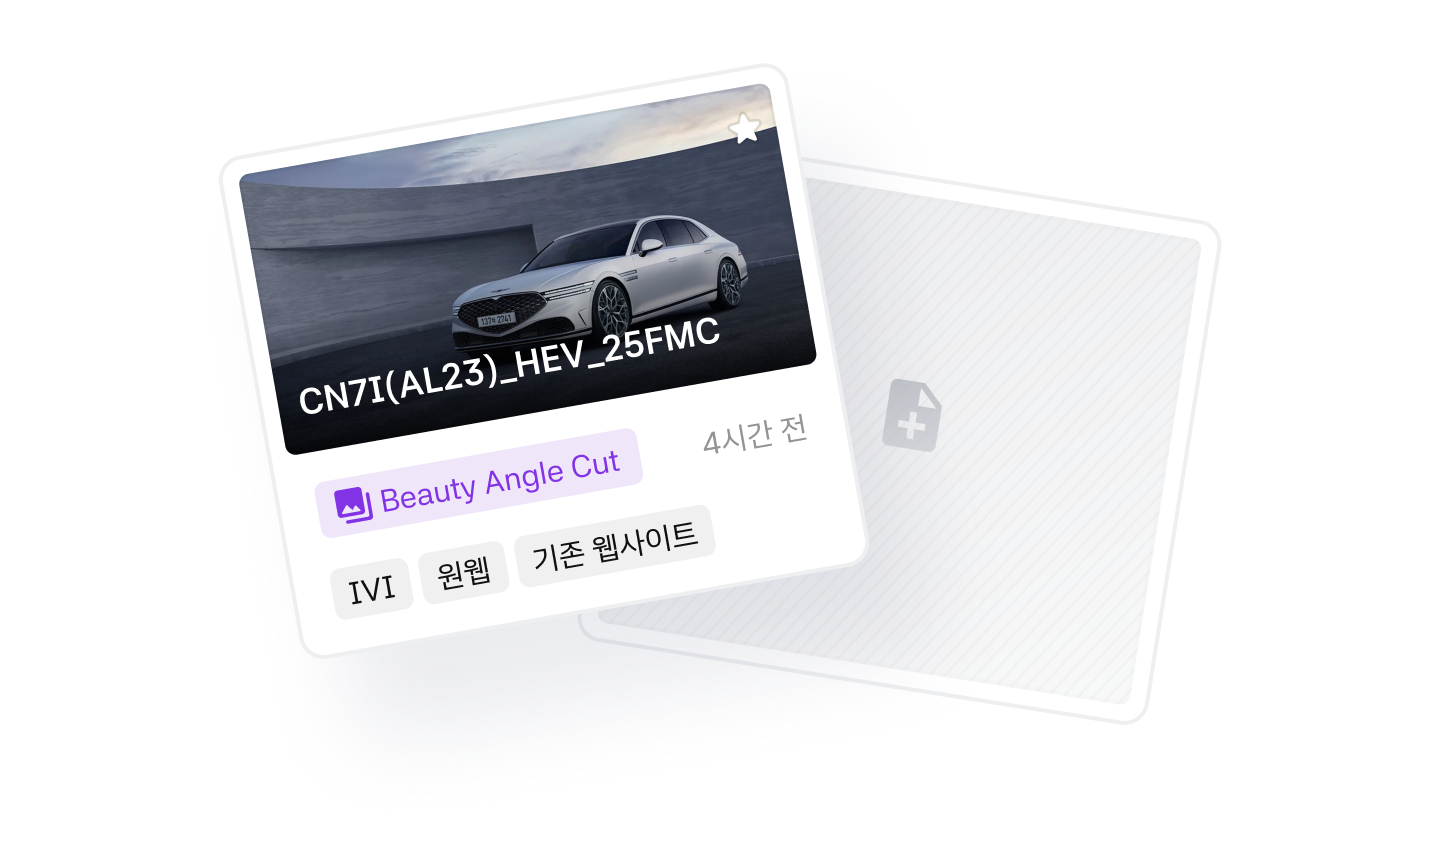
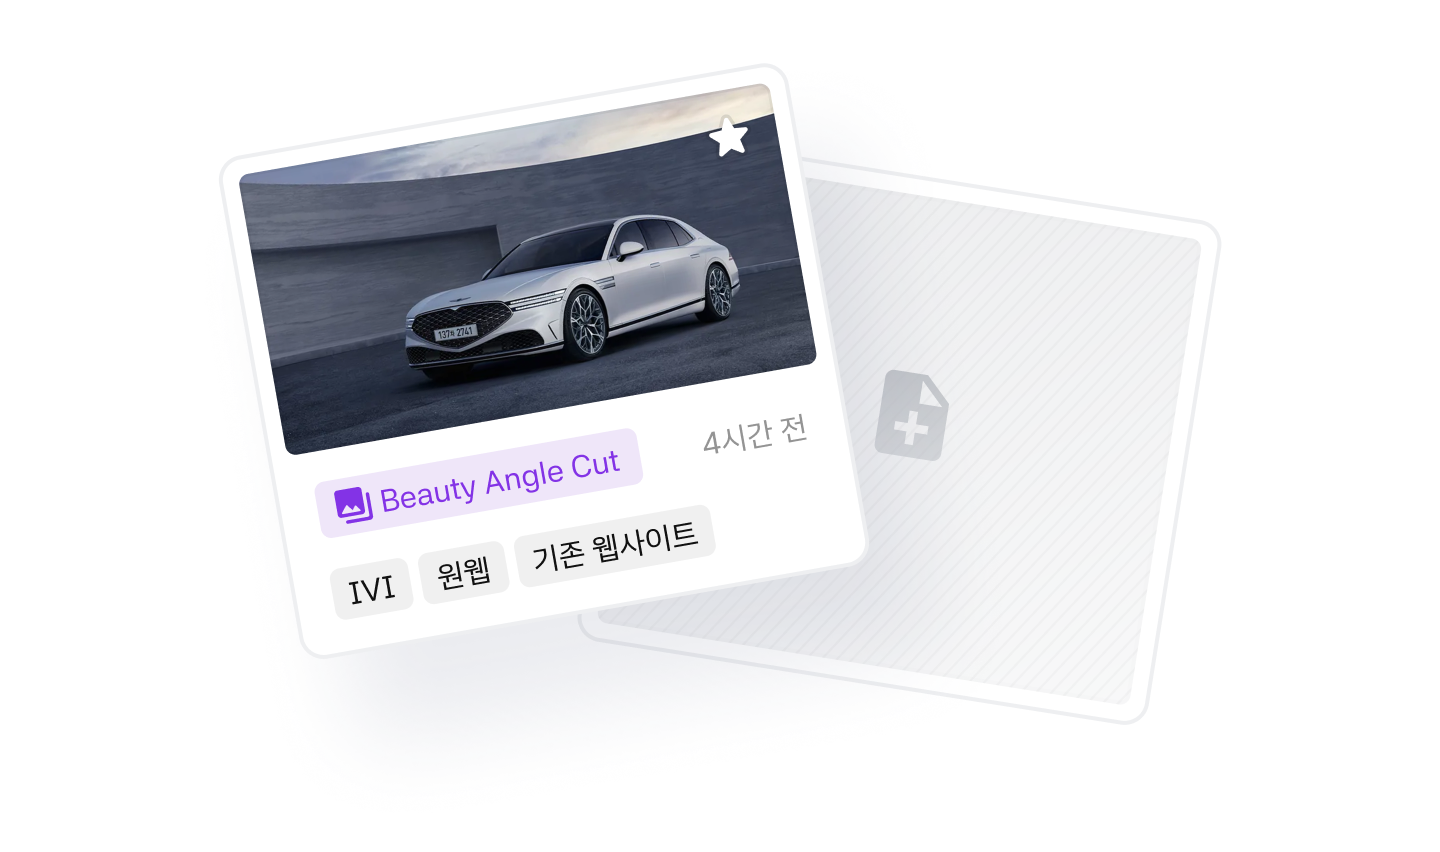
feat: 프로젝트 상세 페이지에 컨텐츠 추가 다이얼로그 구현
- "추가" 버튼 클릭 시 컨텐츠 추가 다이얼로그 열기
- 다이얼로그 너비 620px, 높이 auto로 설정
- 취소 버튼 최소 너비 제한 제거 및 contents fit 레이아웃 적용
- contents_card.png 이미지 업데이트

diff --git a/src/pages/ProjectDetail.tsx b/src/pages/ProjectDetail.tsx
@@ -77,6 +77,7 @@ function ProjectDetail() {
   const { user } = useAuth()
   const [isProjectSettingsOpen, setIsProjectSettingsOpen] = useState(false)
   const [isMembersOpen, setIsMembersOpen] = useState(false)
+  const [isAddContentOpen, setIsAddContentOpen] = useState(false)
 
   // URL에서 contentId 가져오기
   const contentId = searchParams.get('contentId')
@@ -764,10 +765,7 @@ function ProjectDetail() {
                                   minWidth: '0 !important',
                                 }
                               }}
-                              onClick={() => {
-                                // TODO: 컨텐츠 추가 로직
-                                console.log('Beauty Angle Cut 추가')
-                              }}
+                              onClick={() => setIsAddContentOpen(true)}
                             >
                               {t('projectDetail.contents.beautyAngleCut.addButton')}
                             </Button>
@@ -819,6 +817,45 @@ function ProjectDetail() {
           </Button>
           <Button hdsProps={{ type: 'fill', style: 'primary' }} onClick={() => setIsMembersOpen(false)}>
             {t('common.button.save')}
+          </Button>
+        </DialogActions>
+      </Dialog>
+
+      {/* 컨텐츠 추가 다이얼로그 */}
+      <Dialog
+        open={isAddContentOpen}
+        onClose={() => setIsAddContentOpen(false)}
+        maxWidth={false}
+        PaperProps={{
+          sx: { width: '620px', height: 'auto' }
+        }}
+      >
+        <DialogTitle hdsProps={{ closeIcon: false }}>컨텐츠 추가</DialogTitle>
+        <DialogContent hdsProps>
+          <Typography sx={{ color: 'var(--on_surface_mid)' }}>
+            컨텐츠 추가 기능이 구현될 예정입니다.
+          </Typography>
+        </DialogContent>
+        <DialogActions hdsProps>
+          <Button
+            hdsProps
+            onClick={() => setIsAddContentOpen(false)}
+            sx={{
+              minWidth: '0 !important',
+              width: 'fit-content',
+              padding: '8px 16px !important',
+            }}
+          >
+            {t('common.button.cancel')}
+          </Button>
+          <Button
+            hdsProps={{ type: 'fill', style: 'primary' }}
+            onClick={() => {
+              // TODO: 컨텐츠 추가 로직
+              setIsAddContentOpen(false)
+            }}
+          >
+            컨텐츠 추가
           </Button>
         </DialogActions>
       </Dialog>
